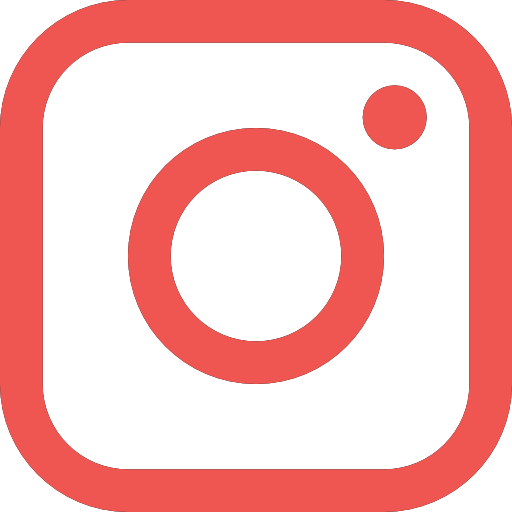
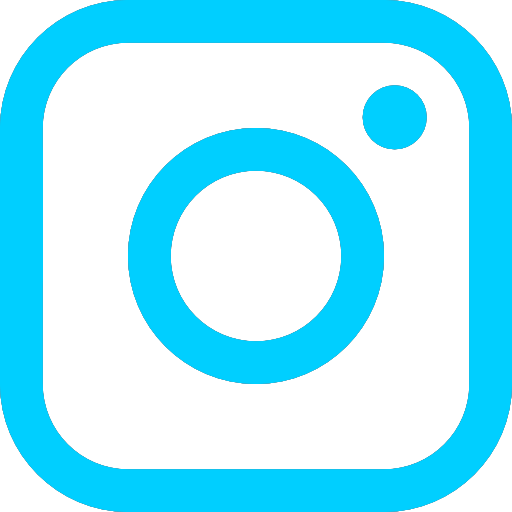
Add files via upload

diff --git a/components/App/topRated.jsx b/components/App/topRated.jsx
@@ -48,28 +48,28 @@ export function TopRated() {
 
     return(
         <div>
-            <div className='topRatedTitle'>
-                TOP RATED USERS
-            </div>
-            <div style={{marginTop: "150px"}}>
+            <div className='topRated'>
+                <div className='topRatedTitle'>
+                    TOP RATED USERS
+                </div>
                 <div className='topRatedParent'>
                     <div className='topRatedChildren'>
-                        <div className='topRatedItem1'>
-                            <Player fluid={false} src={'https://firebasestorage.googleapis.com/v0/b/ymoovie-a4a92.appspot.com/o/Movies%2Faky%40gmail.com%2Fnfs-9da66b84-3c4f-4602-ab55-fab0eecdd626?alt=media&token=ec77099c-61df-4ae0-be15-835482b89a1f'}>
-                                <BigPlayButton position="center" />
-                            </Player>
+                        <div className='topRatedVideo'>
+                            <video controls resizeMode='contain'>
+                                <source src="https://firebasestorage.googleapis.com/v0/b/ymoovie-a4a92.appspot.com/o/Movies%2Faky%40gmail.com%2Fnfs-9da66b84-3c4f-4602-ab55-fab0eecdd626?alt=media&token=ec77099c-61df-4ae0-be15-835482b89a1f" type="video/mp4"/>
+                            </video>
                         </div>
-                        <table className='topRatedItem2'>
-                            <tr className='table1Item2'>
-                                <th className='table1Column'>CREATOR</th>
-                                <th className='table1Column'>USER RATING</th>
-                                <th style={{paddingRight: "40px"}}>RATE THIS MOVIE</th>
+                        <table className='topRatedTable'>
+                            <tr className='table1'>
+                                <th className='table1Column1'>CREATOR</th>
+                                <th className='table1Column2'>USER RATING</th>
+                                <th className='table1Column3'>RATE THIS MOVIE</th>
                             </tr>
                             <tr className='table2Item2'>
-                                <th className='table2Column'>{aky['UserName']}</th>
-                                <th className='table2Column'>{aky['Rating'].toFixed(2)}</th>
-                                <th style={{padingRight: "40px"}}>
-                                    <Box sx={{'& > legend': { mt: 3 }}}>
+                                <th className='table2Column1'>{aky['UserName']}</th>
+                                <th className='table2Column2'>{aky['Rating'].toFixed(2)}</th>
+                                <th>
+                                    <Box className="ratingSystemPos" sx={{'& > legend': { mt: 3 }}}>
                                             <Rating
                                                 name="simple-controlled"
                                                 value={akyValue}
@@ -87,22 +87,22 @@ export function TopRated() {
                     </div>
 
                     <div className='topRatedChildren'>
-                        <div className='topRatedItem1'>
-                            <Player fluid={false} src={'https://firebasestorage.googleapis.com/v0/b/ymoovie-a4a92.appspot.com/o/Movies%2Fdarklady%40gmail.com%2Fdragonflight-65f78732-8a9d-43a6-a1c7-9332aa72e4aa?alt=media&token=a653f9b3-9bc5-4004-8e3f-0bf56939c95f'}>
-                                <BigPlayButton position="center" />
-                            </Player>
+                        <div className='topRatedVideo'>
+                            <video controls>
+                                <source src="https://firebasestorage.googleapis.com/v0/b/ymoovie-a4a92.appspot.com/o/Movies%2Fdarklady%40gmail.com%2Fdragonflight-65f78732-8a9d-43a6-a1c7-9332aa72e4aa?alt=media&token=a653f9b3-9bc5-4004-8e3f-0bf56939c95f" type="video/mp4"/>
+                            </video>
                         </div>
-                        <table className='topRatedItem2'>
-                            <tr className='table1Item2'>
-                                <th className='table1Column'>CREATOR</th>
-                                <th className='table1Column'>USER RATING</th>
-                                <th style={{paddingRight: "40px"}}>RATE THIS MOVIE</th>
+                        <table className='topRatedTable'>
+                            <tr className='table1'>
+                                <th className='table1Column1'>CREATOR</th>
+                                <th className='table1Column2'>USER RATING</th>
+                                <th className='table1Column3'>RATE THIS MOVIE</th>
                             </tr>
                             <tr className='table2Item2'>
-                                <th className='table2Column'>{darkLady['UserName']}</th>
-                                <th className='table2Column'>{darkLady['Rating'].toFixed(2)}</th>
-                                <th style={{padingRight: "40px"}}>
-                                <Box sx={{'& > legend': { mt: 3 }}}>
+                                <th className='table2Column1'>{darkLady['UserName']}</th>
+                                <th className='table2Column2'>{darkLady['Rating'].toFixed(2)}</th>
+                                <th>
+                                <Box className="ratingSystemPos" sx={{'& > legend': { mt: 3 }}}>
                                             <Rating
                                                 name="simple-controlled"
                                                 value={darkLadyValue}
@@ -119,22 +119,22 @@ export function TopRated() {
                         </table>
                     </div>
                     <div className='topRatedChildren' style={{marginBottom: "100px"}}>
-                        <div className='topRatedItem1'>
-                            <Player fluid={false} src={'https://firebasestorage.googleapis.com/v0/b/ymoovie-a4a92.appspot.com/o/Movies%2Fsnowman%40gmail.com%2Fspider%20man-b5b1619c-7ff8-4241-b47e-a370d8413369?alt=media&token=eee1fd3f-a0a0-4343-8262-8afae7e3f7b2'}>
-                                <BigPlayButton position="center" />
-                            </Player>
+                        <div className='topRatedVideo'>
+                            <video controls>
+                                <source src="https://firebasestorage.googleapis.com/v0/b/ymoovie-a4a92.appspot.com/o/Movies%2Fsnowman%40gmail.com%2Fspider%20man-b5b1619c-7ff8-4241-b47e-a370d8413369?alt=media&token=eee1fd3f-a0a0-4343-8262-8afae7e3f7b2" type="video/mp4"/>
+                            </video>
                         </div>
-                        <table className='topRatedItem2'>
-                            <tr className='table1Item2'>
-                                <th className='table1Column'>CREATOR</th>
-                                <th className='table1Column'>USER RATING</th>
-                                <th style={{paddingRight: "40px"}}>RATE THIS MOVIE</th>
+                        <table className='topRatedTable'>
+                            <tr className='table1'>
+                                <th className='table1Column1'>CREATOR</th>
+                                <th className='table1Column2'>USER RATING</th>
+                                <th className='table1Column3'>RATE THIS MOVIE</th>
                             </tr>
                             <tr className='table2Item2'>
-                                <th className='table2Column'>{snowMan['UserName']}</th>
-                                <th className='table2Column'>{snowMan['Rating'].toFixed(2)}</th>
-                                <th style={{padingRight: "40px"}}>
-                                <Box sx={{'& > legend': { mt: 3 }}}>
+                                <th className='table2Column1'>{snowMan['UserName']}</th>
+                                <th className='table2Column2'>{snowMan['Rating'].toFixed(2)}</th>
+                                <th>
+                                <Box className="ratingSystemPos" sx={{'& > legend': { mt: 3 }}}>
                                             <Rating
                                                 name="simple-controlled"
                                                 value={snowManValue}

diff --git a/components/App/home.jsx b/components/App/home.jsx
@@ -3,7 +3,13 @@ import { getStorage, ref, listAll, getDownloadURL } from "firebase/storage";
 import { app } from '../../firebase.js';
 import '../../App.css';
 import Button from 'react-bootstrap/Button';
+import video from '../images/video.mp4';
 import { useNavigate } from 'react-router-dom';
+import logo from '../images/logoMicNegru.png';
+import linkedin from '../images/linkedin.png';
+import instagram from '../images/instagram.png';
+import facebook from '../images/facebook.png';
+
 
 
 export function Home() {
@@ -15,14 +21,45 @@ export function Home() {
     }
     
     return(
-     <div>
         <div>
-            <div className="homeComponent">
-                <div style={{fontSize: "60px"}}>Welcome to YMOOVIE</div>
-                <Button onClick={() => redirect()} style={{backgroundColor: "#ef5651", borderColor: "#ef5651", marginTop: "10px"}}>LET'S WATCH SOME MOVIES FROM OUR TOP RATED USERS</Button>
+            <div>
+                <div className="videoTag" style={{zIndex:1}}>
+                    <video autoPlay loop muted>
+                        <source src={video} type='video/mp4' />
+                    </video>
+                </div>
+                <div className="homeComponentCenter"  style={{zIndex:2}}>
+                    <div className='homeComponentTextBold'>Explore the world’s leading</div>
+                    <div className='homeComponentTextBold' style={{marginTop: "-30px"}}> artwork portfolios </div>
+                    <div className='homeComponentTextNormal' style={{marginTop: "20px"}}>Millions of artists around the world showcase their portfolio work</div>
+                    <div className='homeComponentTextNormal'>on YMoovie - the home to the world’s best design and creative professionals.</div>
+                    <br></br>
+                    <br></br>
+                    <Button className="homeComponentButton" onClick={() => redirect()} style={{fontSize: "20px", backgroundColor: "#00cfff", borderColor: "#00cfff"}}>Let's watch some movies from top rating users</Button>
+                </div>
+            </div>
+            <div className='homeBorder'>
+            </div>
+            <div className="homeComponentBottom">
+                <img src={logo} className='homeLogo'/>
+                <div>YMoovie is the world’s leading </div>
+                <div>community for creatives to share, grow, and get hired. </div>
+                <div className='homeContacts'>
+                    <div style={{marginTop: "10px"}}>
+                        <img src={facebook} className='homeContactsLogo'/>
+                        YMoovie
+                    </div>
+                    <div style={{marginTop: "10px"}}>
+                        <img src={instagram} className='homeContactsLogo'/>
+                        YMoovie
+                    </div>
+                    <div style={{marginTop: "10px"}}>
+                        <img src={linkedin} className='homeContactsLogo'/>
+                        YMoovie
+                    </div>
+                </div>
             </div>
         </div>
-     </div>
-    
+        
     )
 }

diff --git a/components/App/navBar.jsx b/components/App/navBar.jsx
@@ -2,8 +2,7 @@ import React, { useState } from 'react';
 import Nav from 'react-bootstrap/Nav';
 import Navbar from 'react-bootstrap/Navbar';
 import { LogOut } from '../User/logout.jsx';
-import logo from "../images/logoMicAlb.png";
-import { NavItem } from 'react-bootstrap';
+import logo from "../images/logoMicNegru.png";
 
 
 export function NavBar(props) {
@@ -11,29 +10,29 @@ export function NavBar(props) {
 
     return(
         <div className='navBar'>
-            <div>
+            <div className='navBarLeft'>
                 <Navbar.Brand href="\home" >
                     <img src={logo} className='navLogo'/>
                 </Navbar.Brand>
-                </div>
-            <div className='navButtons'>
-                    <Nav.Link className='navText' style={{color: "white"}} href="/home" >HOME</Nav.Link>
-                    <Nav.Link className='navText' style={{color: "white"}} href="/addmovie" >ADD YOUR MOVIE</Nav.Link>
-                    <Nav.Link className='navText' style={{color: "white"}} href="/toprated" >TOP RATED</Nav.Link>
-                    <Nav.Link className='navText' style={{color: "white"}} href="/contact" >CONTACT</Nav.Link>
-                    {props.statusLogin == null && (
-                        <Nav.Link className='navText' style={{color: "white"}} href="/register" >REGISTER</Nav.Link>
-                    )}
-                    {props.statusLogin == null && (
-                        <Nav.Link className='navText' style={{color: "white"}} href="/login" >LOGIN</Nav.Link>
-                    )}
-                    {props.statusLogin != null && (
-                        <Nav.Link className='navText' style={{color: "white"}} href="/myprofile" >MY PROFILE</Nav.Link>
-                    )}
-                    {props.statusLogin != null && (
-                        <LogOut />
-                    )}
+                <Nav.Link className='navText' style={{color: "white"}} href="/home" >Home</Nav.Link>
+                <Nav.Link className='navText' style={{color: "white"}} href="/addmovie" >Add your movie</Nav.Link>
+                <Nav.Link className='navText' style={{color: "white"}} href="/toprated" >Top Rated</Nav.Link>
+                <Nav.Link className='navText' style={{color: "white"}} href="/contact" >Contact</Nav.Link>
+            </div>
+            <div className='navBarRight'>
+                {props.statusLogin == null && (
+                    <Nav.Link className='navText' style={{color: "white"}} href="/login" >Sign in</Nav.Link>
+                )}
+                {props.statusLogin == null && (
+                    <Nav.Link className='navText' style={{color: "white"}} href="/register" >Sign up</Nav.Link>
+                )}
+                {props.statusLogin != null && (
+                    <Nav.Link className='navText' style={{color: "white"}} href="/myprofile" >My Profile</Nav.Link>
+                )}
+                {props.statusLogin != null && (
+                    <LogOut />
+                )}
             </div>
         </div>
-    )
+    )        
 }

diff --git a/components/App/Contact.jsx b/components/App/Contact.jsx
@@ -9,29 +9,27 @@ export function Contact() {
     return(
         <div className="contact">
             <div className="contactTitle">
-                CONTACT US
+                Contact Us
             </div>
-            <div style={{display: "block", marginTop: "15%"}}>
-                <div style={{display: "flex"}}>
-                    <div className='contactComponent'>
-                        <img src={instagram} style={{height: "50px", width: "50px", marginRight: "8px"}} />
-                        <h1>YMOOVIE</h1>
+            <div>
+                <div className='contactComponent1'>
+                    <div>
+                        <img className="contactImage" src={facebook}/>
+                        <a style={{marginLeft: "10px"}}>Y-Moovie</a>
                     </div>
-                    <div className='contactComponent' style={{marginLeft: "auto"}}>
-                        <img src={facebook} style={{height: "50px", width: "50px", marginRight: "8px"}} />
-                        <h1>YMOOVIE</h1>
+                    <div>
+                        <img className="contactImage" src={instagram}/>
+                        <a style={{marginLeft: "10px"}}>Y-Moovie</a>
                     </div>
                 </div>
-            </div>
-            <div style={{display: "block", marginTop: "2%"}}>
-                <div style={{display: "flex"}}>
-                    <div className='contactComponent'>
-                        <img src={phone} style={{height: "50px", width: "50px", marginRight: "8px"}} />
-                        <h1>+40741198713</h1>
+                <div className="contactComponent2">
+                    <div style={{display: "flex"}}>
+                        <img className="contactImage" src={linkedin}/>
+                        <a style={{marginLeft: "10px"}}>Y-Moovie</a>
                     </div>
-                    <div className='contactComponent' style={{marginLeft: "auto"}}>
-                        <img src={linkedin} style={{height: "50px", width: "50px", marginRight: "8px"}} />
-                        <h1>YMOOVIE</h1>
+                    <div style={{display: "flex", marginRight: "15px"}}>
+                        <img className="contactImage" src={phone}/>
+                        <a style={{marginLeft: "10px"}}>+123456</a>
                     </div>
                 </div>
             </div>

diff --git a/components/App/addMovie.jsx b/components/App/addMovie.jsx
@@ -40,7 +40,7 @@ export function AddMovie(props) {
 
 
     return(
-        <div className="background">
+        <div>
             <div className="addMovieCard">
                 <Card >
                     <Card.Body>
@@ -49,7 +49,7 @@ export function AddMovie(props) {
                         <br></br>
                         <Card.Title className="addMovieTitle">
                             <h3>
-                                <strong>Upload Your Movie</strong>
+                                <strong>Upload your movie</strong>
                             </h3>
                         </Card.Title>
                         <br></br>
@@ -66,7 +66,7 @@ export function AddMovie(props) {
                             <Form.Group controlId="formFile" className="mb-3"> {/* upload */}
                                 <Form.Control type="file" onChange={(event) => setMovieUpload(event.target.files[0])} />
                             </Form.Group>
-                            <Button style={{marginTop: "10px", backgroundColor: "#ef5651", borderColor: "#ef5651"}} onClick={() => uploadMovie()}>Upload Your Movie</Button>
+                            <Button style={{marginTop: "10px", backgroundColor: "#00cfff", borderColor: "#00cfff"}} onClick={() => uploadMovie()}>Upload Your Movie</Button>
                         </div >
                     </Card.Body>
                 </Card>
